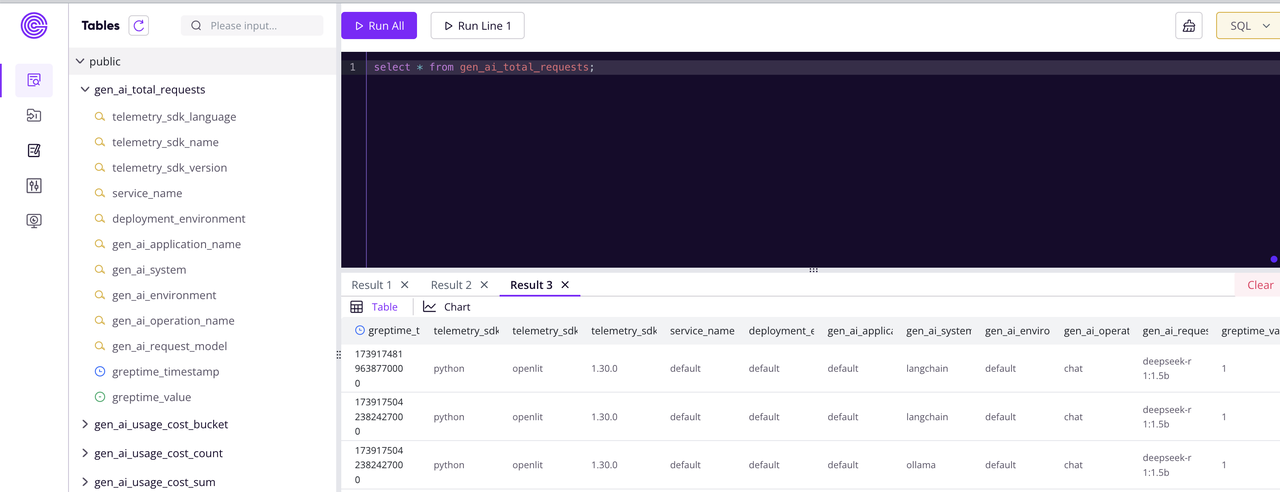
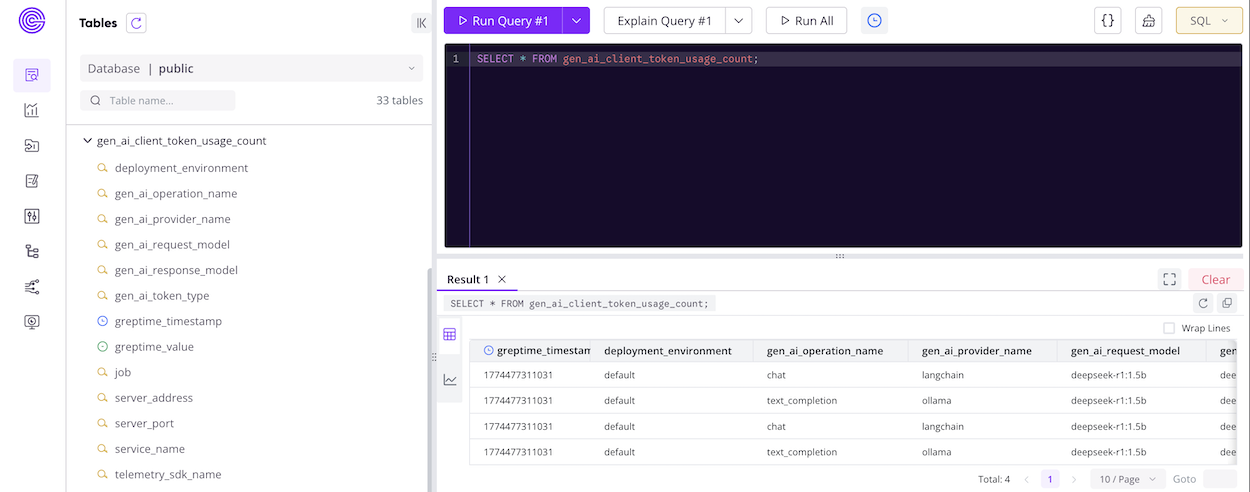
refactor ollama demo (#124)
* feat: update README and Docker configuration for improved setup instructions

* chore: resize images to 1280 * 492

* chore: resize images to 1280 * 721

* chore: remove obsolete requirements for ollama-opentelemetry

---------

diff --git a/ollama-opentelemetry/joke.py b/ollama-opentelemetry/joke.py
@@ -2,8 +2,8 @@ import openlit
 
 from langchain_ollama.llms import OllamaLLM
 
-openlit.init(otlp_endpoint="http://127.0.0.1:4318", disable_batch=True)
+openlit.init(otlp_endpoint="http://otel-collector:4318", disable_batch=True)
 
-llm = OllamaLLM(model='deepseek-r1:1.5b')
+llm = OllamaLLM(model="deepseek-r1:1.5b", base_url="http://ollama:11434")
 
 print(llm.invoke("Tell me a joke"))

diff --git a/ollama-opentelemetry/README.md b/ollama-opentelemetry/README.md
@@ -1,126 +1,105 @@
 # OpenTelemetry + GreptimeDB for AI Application Observability
 
-## Step 1: Install Ollama & DeepSeek R1 Model
+## Prerequisites
 
-You can download the appropriate installation package for your operating system from the [Ollama official website](https://ollama.com/download). On Mac systems, you can easily install it using Homebrew:
+Ensure you have installed `git`, `docker` and `docker-compose` 22.4 or newer.
+
+## Step 1: Start All Services
+
+All services are managed by Docker Compose. Start GreptimeDB, the OpenTelemetry
+Collector, and Ollama with a single command:
 ```bash
-brew install ollama
+docker-compose up -d
 ```
 
-Open a terminal and verify that Ollama is correctly installed:
+This will start the following containers:
+
+| Service          | Role                                              |
+|------------------|---------------------------------------------------|
+| `ollama`         | Serves the LLM via a local REST API               |
+| `greptimedb`     | Stores metrics, logs, and traces                  |
+| `otel-collector` | Receives telemetry and forwards it to GreptimeDB  |
+
+## Step 2: Pull the DeepSeek R1 Model
+
+Once the containers are running, pull the DeepSeek R1 1.5b model into Ollama:
 ```bash
-ollama --version
+docker exec my-ollama ollama pull deepseek-r1:1.5b
 ```
 
-The installed version used in this guide is 0.5.7:
-```bash
-ollama version is 0.5.7
-```
+> We use DeepSeek R1 1.5b as it works well on older hardware.
 
-Run the Ollama executable:
-```bash
-ollama serve
-```
-
-Next, let's pull and run the DeepSeek model. We'll use DeepSeek R1 1.5b as it works well on older hardware:
-```bash
-ollama run deepseek-r1:1.5b
-```
-
-If your network connection is stable and the model downloads successfully, you'll enter the Ollama-LLM interaction interface:
-```bash
-$ ollama run deepseek-r1:1.5b
->>> /?
-Available Commands:
-  /set            Set session variables
-  /show           Show model information
-  /load <model>   Load a session or model
-  /save <model>   Save your current session
-  /clear          Clear session context
-  /bye            Exit
-  /?, /help       Help for a command
-  /? shortcuts    Help for keyboard shortcuts
-
-Use """ to begin a multi-line message.
-```
-
-This indicates successful configuration of the Ollama framework with the DeepSeek R1 1.5b model.
-
-To test the setup, let's ask DeepSeek a question:
+To verify Ollama is working correctly, send a test request:
 ```bash
 curl http://localhost:11434/api/chat -d '{
   "model": "deepseek-r1:1.5b",
-  "messages": [
-    {
-      "role": "user",
-      "content": "why is the sky blue?"
-    }
-  ],
+  "messages": [{ "role": "user", "content": "why is the sky blue?" }],
   "stream": false
 }'
 ```
 
-## Step 2: Setup and Start GreptimeDB & OpenTelemetry Collector
+A successful JSON response confirms that Ollama and DeepSeek R1 1.5b are ready.
 
-Run `docker-compose up` to start GreptimeDB and the OpenTelemetry Collector.
+## Step 3: Verify GreptimeDB & OpenTelemetry Collector
 
-The OpenTelemetry collector will export metrics, logs, and traces to GreptimeDB.
-Here's the configuration (`otel-collector-config.yaml`):
+Access the GreptimeDB dashboard to confirm it is running:
+[http://localhost:4000/dashboard/](http://localhost:4000/dashboard/)
+
+The OpenTelemetry Collector exports metrics, logs, and traces to GreptimeDB.
+Here's the relevant configuration (`otel-collector-config.yaml`):
 ```yaml
+exporters:
   otlphttp:
     endpoint: http://greptimedb:4000/v1/otlp
     tls:
       insecure: true
-  ...
-  service:
-    extensions: [health_check]
-    pipelines:
-      traces:
-        receivers: [otlp]
-        exporters: [debug,otlphttp]
-      metrics:
-        receivers: [otlp]
-        exporters: [debug,otlphttp]
-      logs:
-        receivers: [otlp]
-        exporters: [debug,otlphttp]
+
+service:
+  extensions: [health_check]
+  pipelines:
+    traces:
+      receivers: [otlp]
+      exporters: [debug, otlphttp]
+    metrics:
+      receivers: [otlp]
+      exporters: [debug, otlphttp]
+    logs:
+      receivers: [otlp]
+      exporters: [debug, otlphttp]
 ```
 
-Verify the setup by accessing the GreptimeDB dashboard at [http://localhost:4000/dashboard/](http://localhost:4000/dashboard/).
+## Step 4: Run the LLM Demo
 
-## Step 3: Run the LLM Demo
-
-Install the required Python dependencies by [uv](https://github.com/astral-sh/uv):
+Run the joke app as a one-off container on the same Docker network:
 ```bash
-uv venv
-source .venv/bin/activate
-uv pip install -r requirements.txt
+docker-compose run --rm llm-joke-app
 ```
 
-Run the `joke.py` script:
-```bash
-uv run joke.py
-```
+The container will build automatically from the existing `Dockerfile`, execute
+`joke.py`, print a joke to the terminal, then exit and clean itself up.
 
-This script uses DeepSeek to generate a joke:
+The core logic in `joke.py` is straightforward:
 ```python
 import openlit
 from langchain_ollama.llms import OllamaLLM
 
-openlit.init(otlp_endpoint="http://127.0.0.1:4318", disable_batch=True)
-llm = OllamaLLM(model='deepseek-r1:1.5b')
+openlit.init(otlp_endpoint="http://otel-collector:4318", disable_batch=True)
+llm = OllamaLLM(model="deepseek-r1:1.5b", base_url="http://ollama:11434")
 print(llm.invoke("Tell me a joke"))
 ```
 
-## Step 4: Data Visualization Using GreptimeDB Dashboard
+> **Note:** The `otlp_endpoint` points to `otel-collector` (the service name),
+> not `127.0.0.1`, because all containers share the same Docker network.
+
+## Step 5: Data Visualization Using GreptimeDB Dashboard
 
 Access the GreptimeDB Dashboard's log view to examine trace data: [http://localhost:4000/dashboard/log-query#/dashboard/log-query](http://localhost:4000/dashboard/log-query#/dashboard/log-query)
 
 ![Trace View](./images/trace.png)
 
-Check the total number of requests using SQL:
+Check the token usage using SQL:
 ```sql
-SELECT * FROM gen_ai_total_requests;
+SELECT * FROM gen_ai_client_token_usage_count;
 ```
 
 The output will look similar to:
